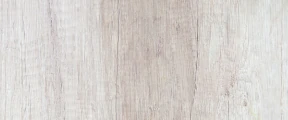
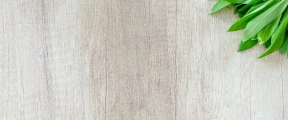
User Cards

diff --git a/resources/js/components/reusables/OverhauledUserCard.tsx b/resources/js/components/reusables/OverhauledUserCard.tsx
@@ -1,11 +1,13 @@
+import { Link } from '@inertiajs/react';
 import Avatar from '@/components/reusables/Avatar';
 import { Badge } from '@/components/ui/badge';
 import { Button } from '@/components/ui/button';
 import { Card } from '@/components/ui/card';
 import { ChefHat, Heart, MessageCircle, Star } from 'lucide-react';
-
+import { RiHome2Line } from "react-icons/ri";
 import AuthUser from '@/types/AuthUser';
 
+import { cn } from '@/lib/utils';
 
 import headerImgSrc from '../../../images/webp/User-Card-Header-Background.webp';
 
@@ -17,7 +19,7 @@ export default function OverhauledUserCard({ user }: OverhauledUserCardProps) {
     return (
         <Card className="w-full py-0 max-w-md overflow-hidden bg-gray-100 dark:bg-gray-900">
             {/* Header Image */}
-            <div className="relative h-24 w-full overflow-hidden">
+            <div className="relative h-32 w-full overflow-hidden">
                 <img
                     src={headerImgSrc}
                     alt="Header background"
@@ -27,7 +29,7 @@ export default function OverhauledUserCard({ user }: OverhauledUserCardProps) {
             </div>
 
             {/* Avatar - Centered and overlapping header */}
-            <div className="relative -mt-16 flex justify-center px-6">
+            <div className="relative -mt-20 flex justify-center px-6">
                 <div className="relative">
                     <Avatar
                         className="h-24 w-24 border-2 border-primary shadow-xl"
@@ -45,51 +47,40 @@ export default function OverhauledUserCard({ user }: OverhauledUserCardProps) {
             <div className="px-6 pb-6 pt-4 text-center">
                 <h3 className="text-xl text-gray-800 dark:text-gray-200">{user?.name}</h3>
                 <p className="text-sm text-muted-foreground">@{user?.name}</p>
-
-                {/* Rating */}
+                
+                {/* Rating
                 <div className="mt-2 flex items-center justify-center gap-1">
-                    
                     <span className="text-sm text-card-foreground">4.9</span>
                     <span className="text-sm text-card-foreground">/</span>
                     <span className="text-sm text-muted-foreground">5.0</span>
-                </div>
-
-                {/* Bio */}
-                <p className="mt-3 text-sm leading-relaxed text-muted-foreground">{user?.biotext}</p>
+                </div> */}
 
                 {/* Specialties */}
                 <div className="mt-4 flex flex-wrap justify-center gap-2">
-                   
-                        <Badge variant="primary" className="text-xs">
-                            {user?.rank}
-                        </Badge>
-                    
+                    <Badge variant="primary" className="text-xs">
+                        {user?.rank}
+                    </Badge>
                 </div>
 
+                {/* Bio */}
+                <div className="h-12 mt-5 flex flex-col items-start justify-start">
+                    <p className="text-sm leading-relaxed text-muted-foreground line-clamp-2">{user?.biotext}</p>
+                </div>
+                
+
                 {/* Stats */}
-                <div className="mt-5 flex items-center justify-center gap-6 border-y border-border py-4">
+                <div className="mt-5 flex items-center justify-center gap-6 border-t border-gray-200 dark:border-gray-800 py-4">
                     <div className="text-center">
                         <div className="text-xl text-card-foreground">{user?.recipes_count}</div>
                         <div className="text-xs text-muted-foreground">Rezepte</div>
                     </div>
                     <div className="h-10 w-px bg-border" />
                     <div className="text-center">
-                        <div className="text-xl font-bold text-card-foreground">
+                        <div className="text-xl text-card-foreground">
                             {user?.comments_count}
                         </div>
                         <div className="text-xs text-muted-foreground">Kommentare</div>
                     </div>
-                </div>
-
-                {/* Action Buttons */}
-                <div className="mt-5 flex gap-2">
-                    <Button className="flex-1" variant="outline">
-                        <Heart className={`mr-2 h-4 w-4`} />
-                        Following
-                    </Button>
-                    <Button variant="outline" size="icon">
-                        <MessageCircle className="h-4 w-4" />
-                    </Button>
                 </div>
             </div>
         </Card>
